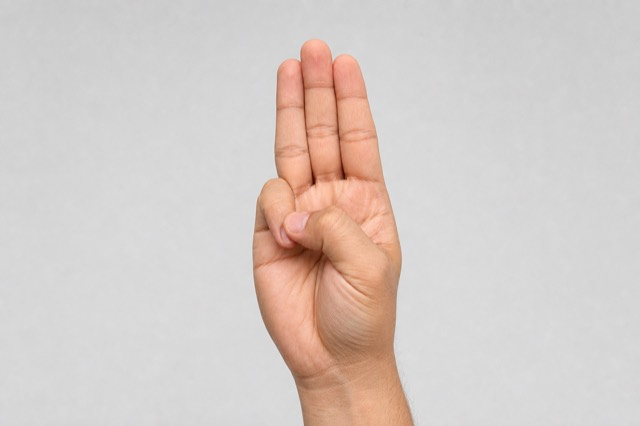
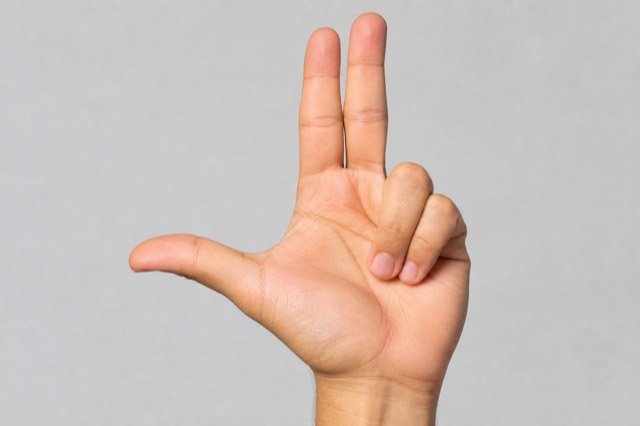
Update French language resources and handshape definitions
- Revised PRODUCT.md to include updated LfPC terminology and improved vowel/consonant tables for French and Swiss contexts.
- Added new images for handshapes and positions, enhancing visual resources in public/examples.
- Updated SOURCES.json to reflect changes in handshape definitions and added new entries for better educational reference.
- Enhanced src/data/content-fr.ts and src/data/lpc-fr.ts with refined mappings for syllables and handshapes.
- Improved lexicon entries in src/data/lexicon-fr.ts for better phonetic accuracy and added new syllable mappings.
- Adjusted cue generation logic in src/lib/lpcPhonemes.ts to incorporate updated handshape definitions and rules.

Changed region(s): [[0.1875, 0.0305, 0.75, 1.0]]

diff --git a/src/lib/handshape.ts b/src/lib/handshape.ts
@@ -24,17 +24,17 @@ function scoreMatch(f: FingerState, expected: FingerState): number {
 }
 
 /**
- * Signatures idéales des 8 configs LfPC (approx MediaPipe).
- * c2/c8 et c3/c6 partagent la même extension de doigts → heuristiques plus bas.
+ * Signatures idéales des 8 configs LfPC (Montre le son / ALPC).
+ * c2/c8 partagent index+majeur → heuristique d’écartement.
  */
 const SIGNATURES: Record<HandshapeId, FingerState> = {
   c1: { thumb: false, index: true, middle: false, ring: false, pinky: false },
   c2: { thumb: false, index: true, middle: true, ring: false, pinky: false },
-  c3: { thumb: true, index: true, middle: false, ring: false, pinky: false },
+  c3: { thumb: false, index: true, middle: true, ring: true, pinky: false },
   c4: { thumb: false, index: true, middle: true, ring: true, pinky: true },
   c5: { thumb: true, index: true, middle: true, ring: true, pinky: true },
   c6: { thumb: true, index: true, middle: false, ring: false, pinky: false },
-  c7: { thumb: false, index: true, middle: true, ring: true, pinky: false },
+  c7: { thumb: true, index: true, middle: true, ring: false, pinky: false },
   c8: { thumb: false, index: true, middle: true, ring: false, pinky: false },
 };
 
@@ -61,21 +61,6 @@ function preferVOrTogether(
   return span > 0.28 ? "c8" : "c2";
 }
 
-/** c3 (cercle pouce↔index) vs c6 (L). */
-function preferCircleOrL(
-  landmarks: NormalizedLandmark[],
-  base: HandshapeId,
-): HandshapeId {
-  if (base !== "c3" && base !== "c6") return base;
-  const thumbTip = landmarks[4];
-  const indexTip = landmarks[8];
-  if (!thumbTip || !indexTip) return base;
-  const dist =
-    Math.hypot(thumbTip.x - indexTip.x, thumbTip.y - indexTip.y) /
-    palmScale(landmarks);
-  return dist < 0.22 ? "c3" : "c6";
-}
-
 export function classifyHandshape(
   landmarks: NormalizedLandmark[] | null,
 ): HandshapeGuess {
@@ -99,8 +84,7 @@ export function classifyHandshape(
 
   for (const id of Object.keys(SIGNATURES) as HandshapeId[]) {
     let s = scoreMatch(fingers, SIGNATURES[id]);
-    // paires ambiguës : léger malus, départage heuristique ensuite
-    if (id === "c2" || id === "c8" || id === "c3" || id === "c6") s -= 0.02;
+    if (id === "c2" || id === "c8") s -= 0.02;
     if (s > bestScore) {
       bestScore = s;
       best = id;
@@ -108,7 +92,6 @@ export function classifyHandshape(
   }
 
   best = preferVOrTogether(landmarks, best);
-  best = preferCircleOrL(landmarks, best);
 
   return {
     id: bestScore >= 0.6 ? best : null,

diff --git a/src/data/lpc-fr.ts b/src/data/lpc-fr.ts
@@ -66,8 +66,8 @@ export const HANDSHAPES: HandshapeDef[] = [
   },
   {
     id: "c3",
-    label: "Cercle",
-    hint: "Pouce et index forment un cercle (autres fermés)",
+    label: "Trois doigts",
+    hint: "Index, majeur et annulaire tendus (auriculaire fermé)",
     consonants: ["s", "ʁ"],
   },
   {
@@ -90,8 +90,8 @@ export const HANDSHAPES: HandshapeDef[] = [
   },
   {
     id: "c7",
-    label: "Trois doigts",
-    hint: "Index, majeur et annulaire tendus",
+    label: "Pouce + 2 doigts",
+    hint: "Pouce écarté, index et majeur tendus jointifs",
     consonants: ["ɡ"],
   },
   {
@@ -211,28 +211,28 @@ export const SYLLABLE_DRILLS: DrillItem[] = [
     label: "Syllabe ra",
     display: "ra",
     cue: { handshape: "c3", position: "side" },
-    tip: "Cercle + côté",
+    tip: "Trois doigts + côté",
   },
   {
     id: "ri",
     label: "Syllabe ri",
     display: "ri",
     cue: { handshape: "c3", position: "mouth" },
-    tip: "Cercle + bouche",
+    tip: "Trois doigts + bouche",
   },
   {
     id: "si",
     label: "Syllabe si",
     display: "si",
     cue: { handshape: "c3", position: "mouth" },
-    tip: "Cercle + bouche",
+    tip: "Trois doigts + bouche",
   },
   {
     id: "sa",
     label: "Syllabe sa",
     display: "sa",
     cue: { handshape: "c3", position: "side" },
-    tip: "Cercle + côté",
+    tip: "Trois doigts + côté",
   },
   {
     id: "va",
@@ -247,6 +247,13 @@ export const SYLLABLE_DRILLS: DrillItem[] = [
     display: "ka",
     cue: { handshape: "c2", position: "side" },
     tip: "Index+majeur + côté",
+  },
+  {
+    id: "ga",
+    label: "Syllabe ga",
+    display: "ga",
+    cue: { handshape: "c7", position: "side" },
+    tip: "Pouce+2 doigts + côté",
   },
   {
     id: "cha",

diff --git a/src/data/content-fr.ts b/src/data/content-fr.ts
@@ -25,7 +25,8 @@ export const CONTENT_FR = {
       word: "bonjour",
       keys: [
         { syllable: "bon", handshape: "c4", position: "mouth" },
-        { syllable: "jour", handshape: "c1", position: "chin" },
+        { syllable: "jou", handshape: "c1", position: "chin" },
+        { syllable: "r", handshape: "c3", position: "side" },
       ],
     },
     {
@@ -185,7 +186,8 @@ export const CONTENT_FR = {
       phrase: "Bonjour !",
       keys: [
         { syllable: "bon", handshape: "c4", position: "mouth" },
-        { syllable: "jour", handshape: "c1", position: "chin" },
+        { syllable: "jou", handshape: "c1", position: "chin" },
+        { syllable: "r", handshape: "c3", position: "side" },
       ],
     },
     {

diff --git a/src/lib/lpcPhonemes.ts b/src/lib/lpcPhonemes.ts
@@ -13,8 +13,8 @@ export type CueToken = {
 
 /**
  * Configs 1–8 (ALPC) :
- * 1 index · 2 index+majeur · 3 cercle · 4 quatre doigts ·
- * 5 cinq doigts / ∅ · 6 L · 7 trois doigts · 8 V
+ * 1 index · 2 index+majeur · 3 trois doigts · 4 quatre doigts ·
+ * 5 cinq doigts / ∅ · 6 L · 7 pouce+2 · 8 V
  */
 const CONSONANT_SHAPE: Record<string, HandshapeId> = {
   p: "c1",

diff --git a/src/data/lexicon-fr.ts b/src/data/lexicon-fr.ts
@@ -110,7 +110,7 @@ const ROWS: Row[] = [
   ['boire', 'b w a R', ['boire']],
   ['bon', 'b o~', ['bon']],
   ['bonbon', 'b o~ . b o~', ['bon', 'bon']],
-  ['bonjour', 'b o~ . Z u R', ['bon', 'jour']],
+  ['bonjour', 'b o~ . Z u . R', ['bon', 'jou', 'r']],
   ['bonne', 'b O n', ['bonne']],
   ['bonsoir', 'b o~ . s w a R', ['bon', 'soir']],
   ['bouche', 'b u S', ['bouche']],

diff --git a/src/lib/achievements.ts b/src/lib/achievements.ts
@@ -43,7 +43,7 @@ const POS_IDS = [
 ];
 
 const SYLLABLE_RE_FR =
-  /^(pa|da|pi|mi|tu|ma|ba|la|li|ni|ra|ri|si|sa|va|ka|cha|chi|ya|ou|an|on|in|é)$/;
+  /^(pa|da|pi|mi|tu|ma|ba|la|li|ni|ra|ri|si|sa|va|ka|ga|cha|chi|ya|ou|an|on|in|é)$/;
 
 const SYLLABLE_RE_EN =
   /^(me|see|to|no|you|go|she|the|hi|bye|yes|be|we|tea|do|so|my|too)$/;

diff --git a/PRODUCT.md b/PRODUCT.md
@@ -38,32 +38,37 @@ Exemple : *pa / ba / ma* se ressemblent sur les lèvres ; le LPC les différenci
 
 **English Cued Speech** : autre table (8 formes × **4** positions, groupements consonnes/voyelles différents du LPC FR).
 
-## Référentiel MVP (`fr-FR`) — LfPC / ALPC
+## Référentiel MVP (`fr-FR` / Suisse) — LfPC
+
+Source de vérité : affiche « Clés du code LPC » (FR/CH) + [Montre le son](https://montre-le-son.ch/notions-reperes-code/).
 
 ### Positions (voyelles)
 
 | Id | Zone | Voyelles |
 |----|------|----------|
-| `side` | Côté | a, o, œ, ə (+ consonne seule) |
-| `cheek` | Pommette | ɛ̃, ø |
-| `mouth` | Bouche | i, ɔ̃, ɑ̃ |
-| `chin` | Menton | ɛ, u, ɔ |
-| `throat` | Gorge | y, e, œ̃ |
+| `cheek` | Pommette | ɛ̃ (in), ø (eu) |
+| `side` | Côté | a, o, œ (e) — aussi consonne seule / e muet |
+| `mouth` | Bouche | i, ɔ̃ (on), ɑ̃ (an) |
+| `chin` | Menton | ɛ (è), u (ou), ɔ (o ouvert) |
+| `throat` | Gorge | y (u), e (é), œ̃ (un) |
 
 ### Configurations (consonnes)
 
 | Id | Forme | Consonnes |
 |----|-------|-----------|
+| `c5` | Cinq doigts (pouce écarté) | m, t, f, ∅ |
 | `c1` | Index | p, d, ʒ |
-| `c2` | Index + majeur | k, v, z |
-| `c3` | Cercle (pouce+index) | s, ʁ |
 | `c4` | Quatre doigts | b, n, ɥ |
-| `c5` | Cinq doigts | m, t, f, ∅ |
-| `c6` | Forme L | l, ʃ, ɲ, w |
-| `c7` | Trois doigts | ɡ |
+| `c6` | Forme L (pouce + index) | l, ʃ, ɲ, w |
+| `c2` | Index + majeur jointifs | k, v, z |
+| `c3` | Trois doigts | s, ʁ |
+| `c7` | Pouce + index + majeur jointifs | ɡ |
 | `c8` | Forme V | j, ŋ |
 
-Exemple de contrôle : **pa** = index + côté ; **pi** = index + bouche.
+> Pas de « rond » pouce+index (confusion avec le Cued Speech américain).
+
+Exemple de contrôle : **bonjour** = 4+bouche · 1+menton · 3+côté (`bon-jou-r`).
+
 
 ## Parcours pédagogique MVP
 